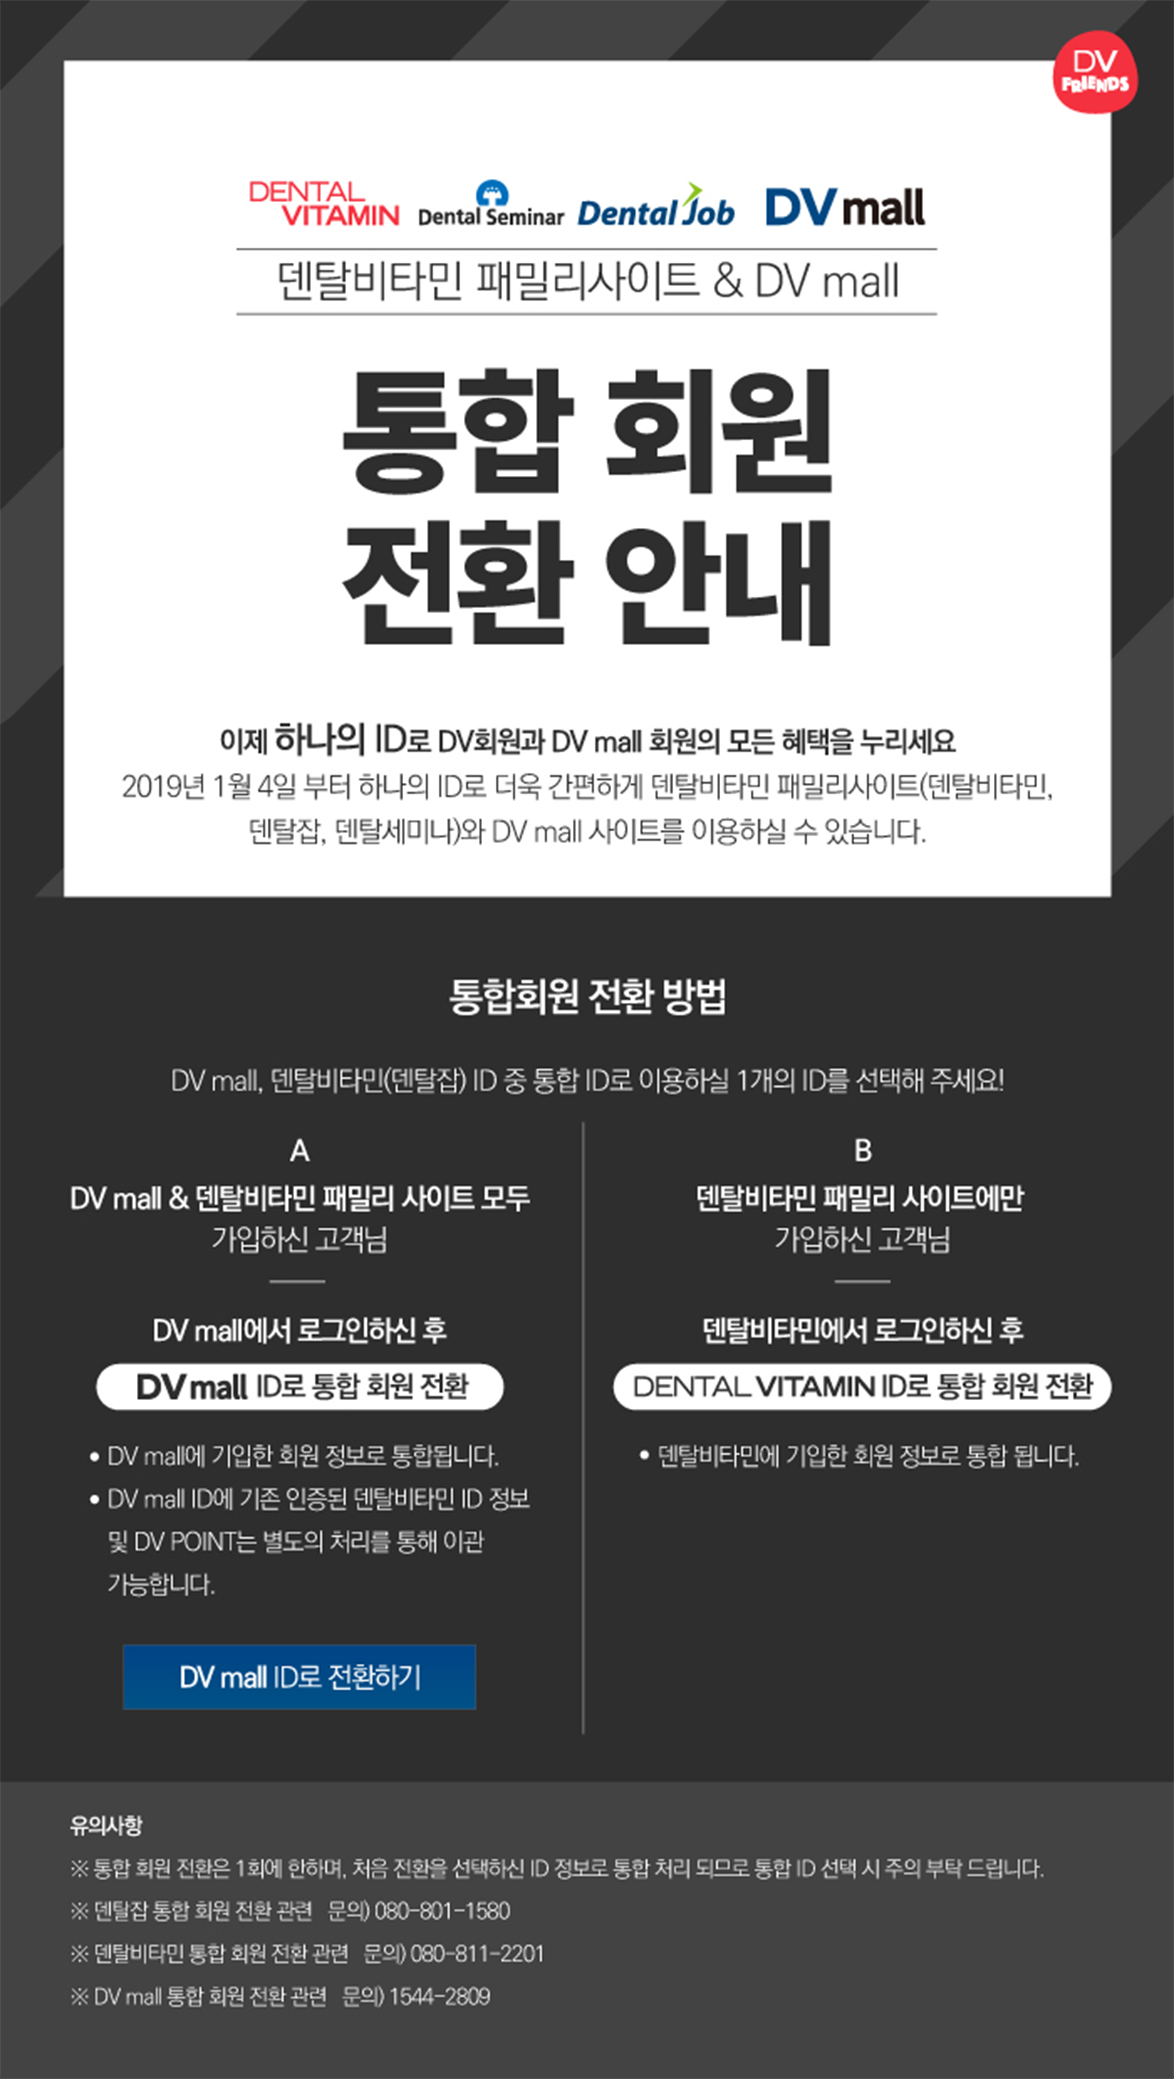
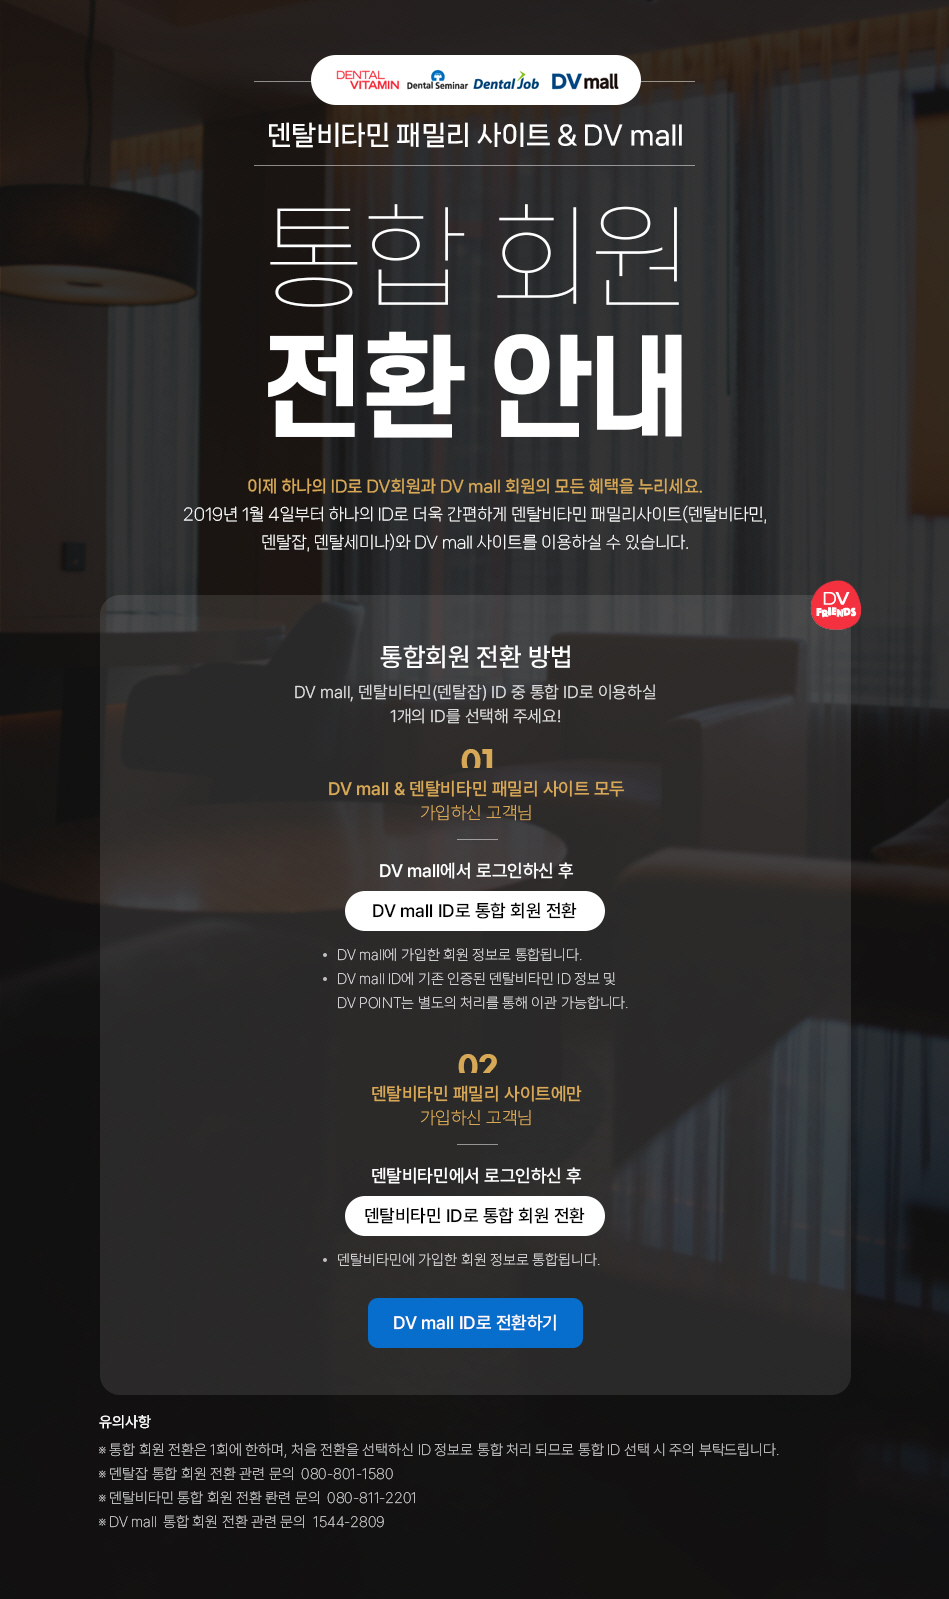
fix PACAA020

diff --git a/css/style.css b/css/style.css
@@ -6166,7 +6166,7 @@ h1.title {
 
 .wrap-question a.btn {
     padding: 0 21px;
-    border-radius: 10px;
+    border-radius: 20px;
     background-color: #eef7fd;
     color: #0068b7;
     font-size: 16px;
@@ -6257,67 +6257,67 @@ h1.title {
 
 /* PACAA020 */
 
-#after-successful-login {
-    padding: 30px 0 77px 0;
-}
-
 #after-successful-login .titleText {
-    font-size: 40px;
-    font-weight: 500;
-    border-bottom: 1px solid #00467b;
-    padding-bottom: 17px;
+    font-size: 36px;
+    border-bottom: 1px solid #000;
+    padding-bottom: 22px;
 }
 
 /* after-successful-login content */
 #after-successful-login .titleContent {
-    font-size: 32px;
-    color: #333333;
-    margin: 44px 0 52px 0;
+    font-size: 24px;
+    margin: 44px auto 52px;
+    max-width: 950px;
 }
 
 #after-successful-login .header-content {
-    border: 1px solid #dddddd;
+    max-width: 950px;
+    border: 1px solid #ddd;
+    background-color: #f5f5f5;
     border-radius: 10px;
     width: 100%;
-    padding: 110px 0;
+    padding: 56px 0 51px;
     display: flex;
     flex-direction: column;
     justify-content: center;
     align-items: center;
+    margin: auto;
+    border-bottom-left-radius: 0;
+    border-bottom-right-radius: 0;
 }
 
 #after-successful-login .header-content-child-1 {
     text-align: center;
-    color: #333333;
-    font-size: 30px;
-    line-height: 50px;
+    font-size: 18px;
+    line-height: 26px;
 }
 
 #after-successful-login .header-content-child-2 {
     text-align: center;
     color: #aa0000;
-    font-size: 28px;
-    line-height: 1;
-    margin: 74px 0 76px 0;
+    font-size: 18px;
+    line-height: 26px;
+    margin: 26px 0 34px 0;
 }
 
-#after-successful-login .content button {
+#after-successful-login button {
     color: #ffffff;
-    width: 344px;
-    height: 90px;
+    width: 200px;
+    height: 52px;
     display: flex;
     justify-content: center;
     align-items: center;
     background-color: #076ecc;
     border-radius: 10px;
-    font-size: 36px;
+    font-size: 18px;
 }
 
 #after-successful-login .poster-introduction {
-    width: 100%;
-    height: 2079px;
-    margin: 30px auto 0 auto;
+    max-width: 950px;
+    margin: auto;
     display: flex;
+    border-bottom-left-radius: 10px;
+    border-bottom-right-radius: 10px;
 }
 
 /* PACAB010 */

diff --git a/PACAA020.html b/PACAA020.html
@@ -311,17 +311,15 @@
                 <!-- End title -->
 
                 <!-- Start  content -->
-                <div class="content">
-                    <div class="titleContent">통합 ID 전환</div>
-                    <div class="header-content">
-                        <p class="header-content-child-1">
-                            하나의 단일한 아이디로<br>
-                            덴탈잡, 덴탈비타민, 덴탈세미나, DVmall 사이트를<br>
-                            모두 이용할 수 있습니다.
-                        </p>
-                        <p class="header-content-child-2">통합완료 후 덴탈잡 이용시 추가적으로 조회권한 비밀번호를 설정해서 보안을 강화할 수 있습니다.</p>
-                        <button class="button-header-content">통합 ID로 전환하기</button>
-                    </div>
+                <div class="titleContent">통합 ID 전환</div>
+                <div class="header-content">
+                    <p class="header-content-child-1">
+                        하나의 단일한 아이디로<br>
+                        덴탈잡, 덴탈비타민, 덴탈세미나, DVmall 사이트를<br>
+                        모두 이용할 수 있습니다.
+                    </p>
+                    <p class="header-content-child-2">통합완료 후 덴탈잡 이용시 추가적으로 조회권한 비밀번호를<br> 설정해서 보안을 강화할 수 있습니다.</p>
+                    <button class="button-header-content">통합 ID로 전환하기</button>
                 </div>
                 <img class="poster-introduction" src="./images/PACAA020/poster-introduction.png" alt="">
                 <!-- End  content -->
